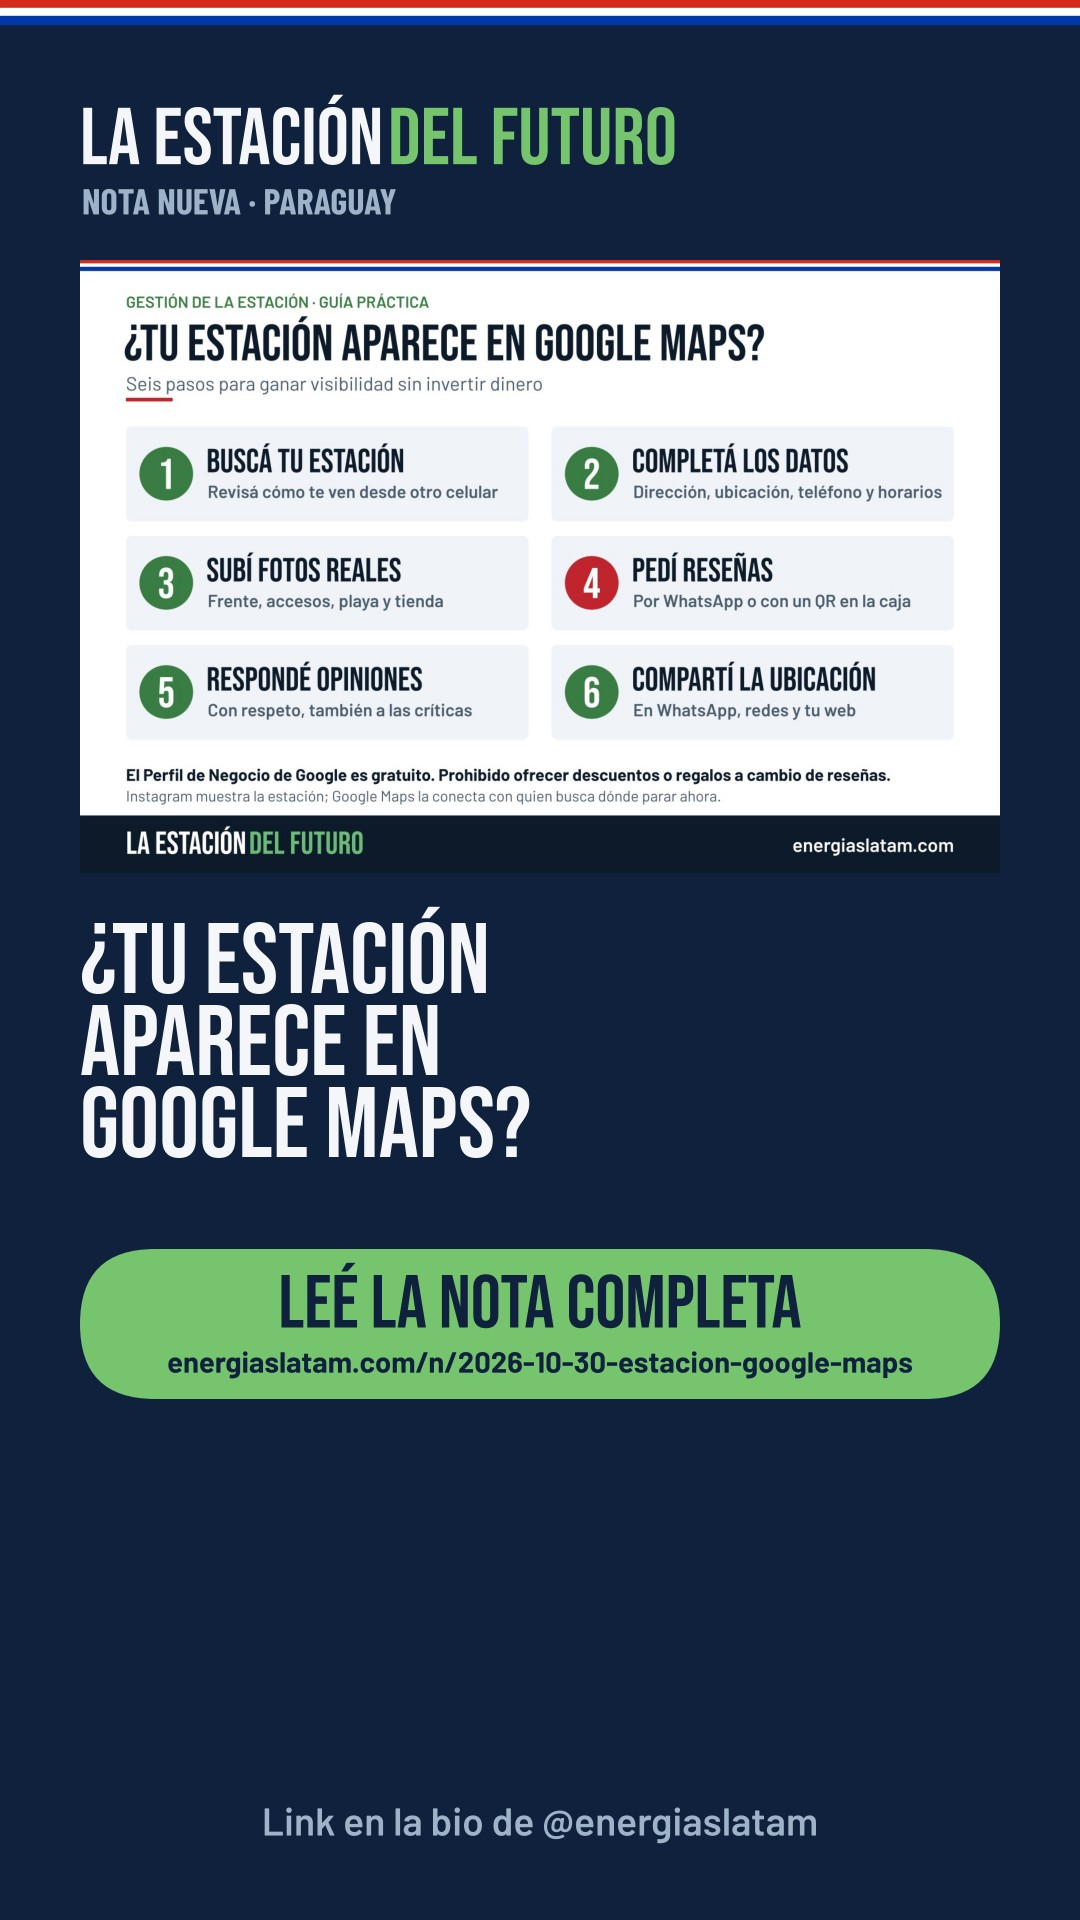
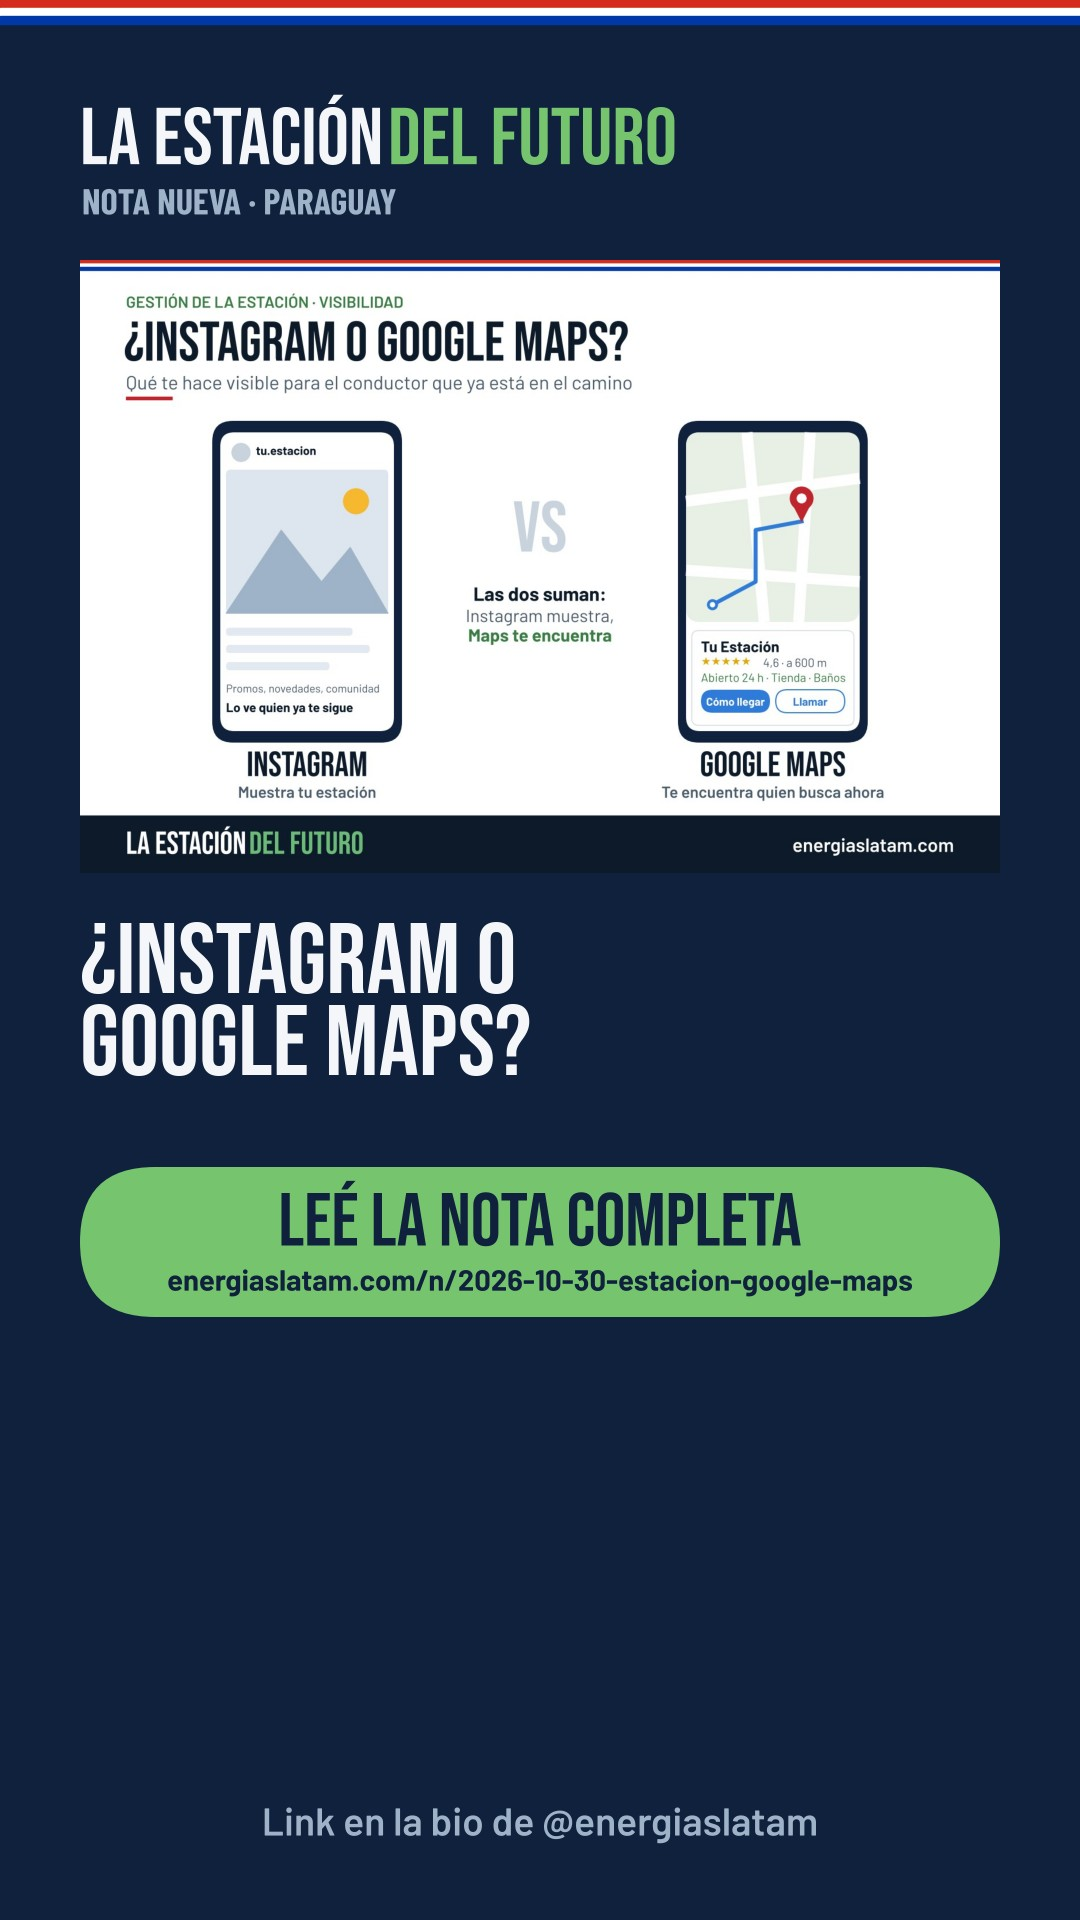
Google Maps: imagen de portada Instagram vs Maps
Claude-Session: https://claude.ai/code/session_01HHGRFrapr8AXyd2C4Baz1m

Changed region(s): [[0.0611, 0.4688, 0.9472, 0.75], [0.1222, 0.1562, 0.8556, 0.4375], [0.4278, 0.375, 0.5194, 0.4062]]

diff --git a/notas/2026-10-30-estacion-google-maps.html b/notas/2026-10-30-estacion-google-maps.html
@@ -1,7 +1,8 @@
-<figure><img src="img/2026-10-30-estacion-google-maps-1.jpg" alt="Seis pasos para que una estación de servicio aparezca bien en Google Maps"><figcaption>Seis pasos para que tu estación aparezca bien en Google Maps, sin invertir dinero.</figcaption></figure>
+<figure><img src="img/2026-10-30-estacion-google-maps-portada.jpg" alt="Ilustración: Instagram muestra la estación, Google Maps la conecta con el conductor que busca dónde parar"><figcaption>Instagram muestra tu estación; Google Maps te conecta con el conductor que busca dónde parar ahora. Ilustración.</figcaption></figure>
 <p>Muchas estaciones de servicio invierten tiempo y dinero en publicar en Instagram, pero pasan por alto una herramienta gratuita que puede ser igual de importante: estar correctamente ubicadas en Google Maps.</p>
 <p>Cuando un conductor busca una estación cerca de su ubicación, tener la dirección correcta, los horarios actualizados, buenas fotos y opiniones de clientes puede marcar la diferencia entre aparecer como una opción útil o pasar desapercibido. No siempre busca una marca: a veces necesita cargar combustible, encontrar un baño, comprar algo o simplemente ubicar la estación más cercana.</p>
 <p>La herramienta para lograrlo es el Perfil de Negocio de Google. Mantenerlo actualizado no garantiza más ventas ni el primer puesto en las búsquedas, pero facilita que los clientes encuentren tu ubicación, horarios, teléfono y servicios. Estos son algunos pasos prácticos.</p>
+<figure><img src="img/2026-10-30-estacion-google-maps-1.jpg" alt="Seis pasos para que una estación de servicio aparezca bien en Google Maps"><figcaption>Seis pasos para que tu estación aparezca bien en Google Maps, sin invertir dinero.</figcaption></figure>
 <h2>1. Buscá tu estación en Google Maps</h2>
 <p>Escribí el nombre y la ciudad. Revisá si aparece en el lugar correcto y qué información ven los clientes. Probá también buscarla desde otro celular o pedile a alguien que no trabaje en la estación que la busque.</p>
 <p>Si no aparece, podés agregarla en Google. Si ya existe, conviene reclamar ese perfil en lugar de crear otro. Si pertenece a otra cuenta, Google ofrece una opción para solicitar acceso.</p>
